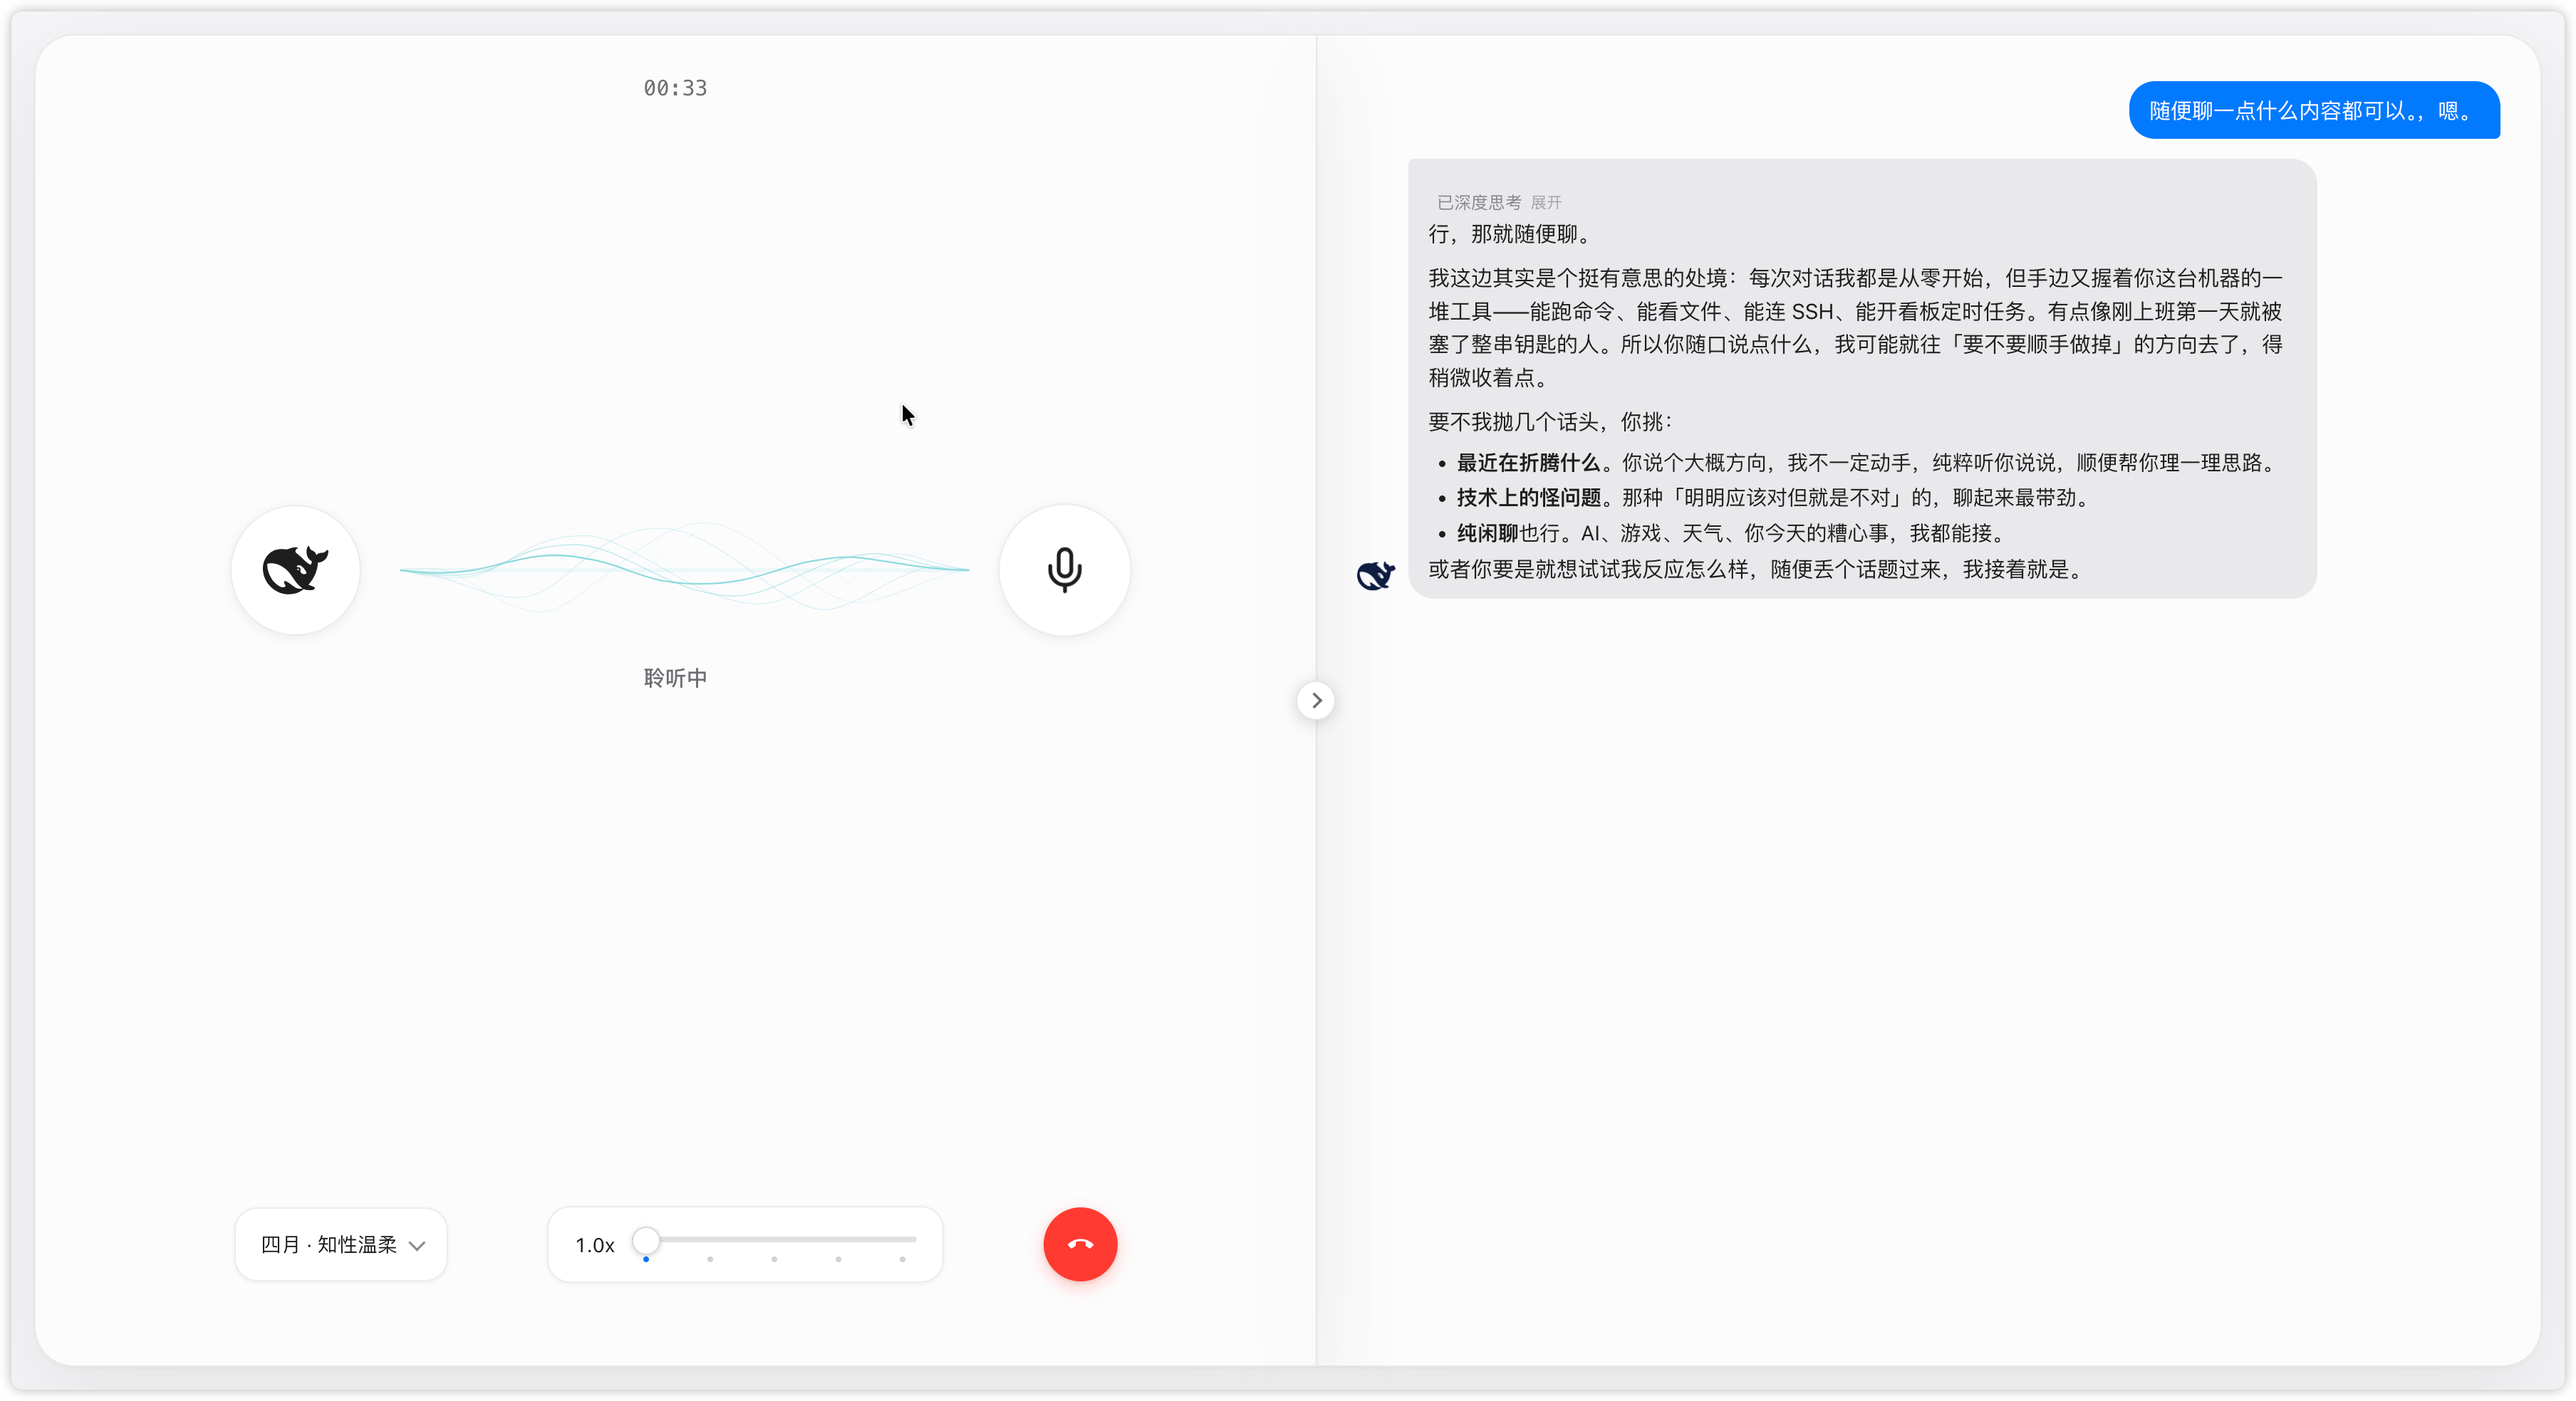
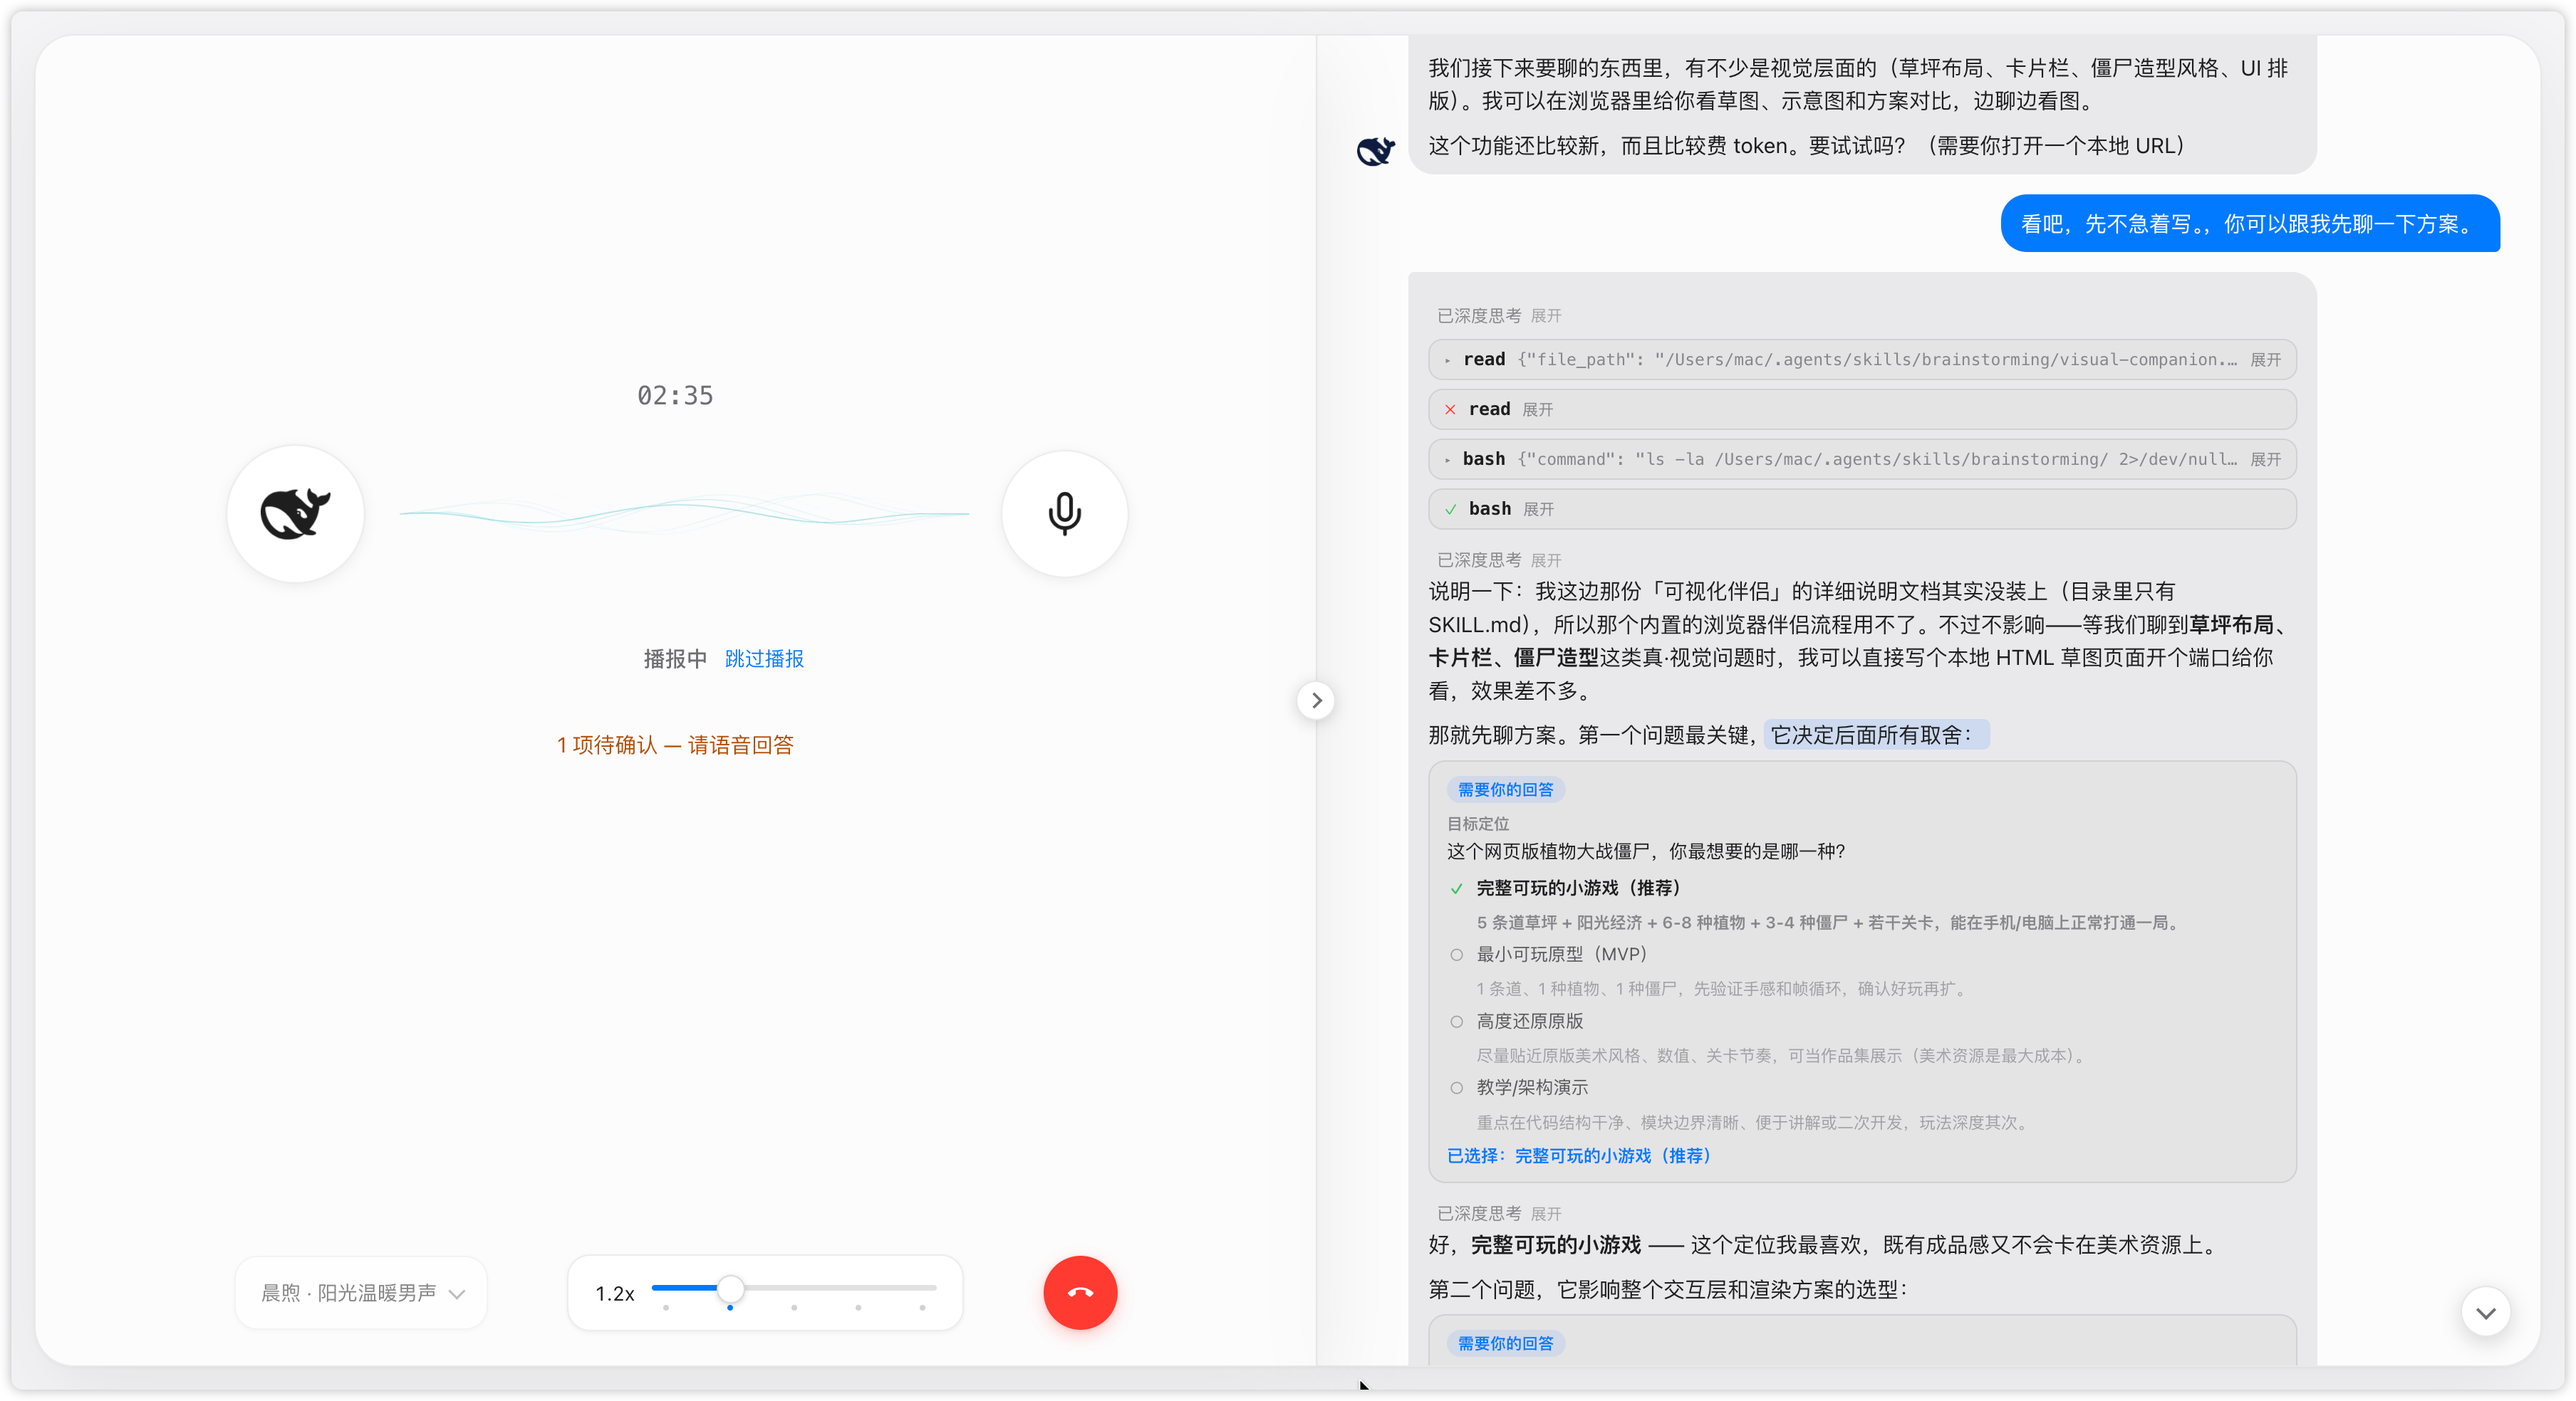
docs: README 优化——头图替换为最新通话层截图；「配置大模型」压缩为两句并改用申请 API Key 链接（与设置页一致）；删除「常见问题」整节（中英同步）

diff --git a/README.en.md b/README.en.md
@@ -30,7 +30,7 @@ Requires dsh ≥ 0.1.0-rc.7 (`web` profile), Chrome / Edge, microphone permissio
 
 ### 2. Configure a model
 
-Settings → Plugins → Voice chat. Qwen is recommended: get a DashScope API Key (https://bailian.console.aliyun.com/cn-beijing/model/market?capabilities=ASR%2CTTS) and paste it into Qwen's "Settings" — the model and endpoint are already built in, so top up and you are set; to make "Speak" use Qwen as well, click "Enable" on that row. iFlytek is built in as well and configured the same way.
+Get an API Key from [Alibaba Cloud Model Studio](https://bailian.console.aliyun.com/cn-beijing/model/settings/api-key), then paste it into Qwen's "Settings" under Settings → Plugins → Voice chat; the model and endpoint are built in. Qwen is the only engine for now; more will be added later.
 
 ### 3. Start talking
 
@@ -57,20 +57,6 @@ Changes on the settings page are persistent defaults; changes made in the call o
 - Bilingual UI (Chinese / English): follows the platform language setting.
 - Keys stay on your machine and are never uploaded: the browser never sees them, and speech requests are proxied by the host.
 - Open source under MIT: auditable and self-hostable.
-
-## FAQ
-
-**Q**: The mic does nothing, or it stays stuck on "Listening" — what now?
-
-**A**: Go to Settings → Plugins → Voice chat and make sure the "Listen" engine has credentials configured and enabled.
-
-**Q**: Replies show as text, but I hear nothing?
-
-**A**: Make sure the "Speak" engine is enabled; for cloud engines check the key and account balance, and for the system voice check the system volume and selected voice.
-
-**Q**: Speaking does not interrupt the readout?
-
-**A**: Barge-in is off by default — turn it on manually. Headphones are recommended; otherwise the speaker output is picked up by the mic and interferes with interruption detection.
 
 ## Easter egg
 

diff --git a/README.md b/README.md
@@ -30,7 +30,7 @@ dsh plugin --profile web add /path/to/dsh-voice-talk
 
 ### 2. 配置大模型
 
-设置 → 插件 → 语音对话。推荐千问：申请一个 DashScope API Key（https://bailian.console.aliyun.com/cn-beijing/model/market?capabilities=ASR%2CTTS），填进千问的「设置」即可——模型和地址都已内置，充值就能用；想让「说」也用千问，点一下那一行的「启用」。讯飞也已内置，同样在设置页配置。
+在[阿里云百炼申请一个 API Key](https://bailian.console.aliyun.com/cn-beijing/model/settings/api-key)，然后到 设置 → 插件 → 语音对话，填进千问的「设置」即可；模型和地址已内置，充值就能用。目前支持千问，后续会引入更多语音引擎。
 
 ### 3. 开始使用
 
@@ -57,20 +57,6 @@ dsh plugin --profile web add /path/to/dsh-voice-talk
 - 中英文双语：跟随平台语言设置，界面完整本地化。
 - 密钥只存本机、绝不上传：浏览器接触不到密钥，语音请求由宿主代理转发。
 - 开源 MIT：代码可审计、可自建。
-
-## 常见问题
-
-**Q**：点了麦克风没反应，或者一直停在「聆听中」？
-
-**A**：到设置 → 插件 → 语音对话，确认「听」的引擎已配置密钥并启用。
-
-**Q**：有文字，但没有声音？
-
-**A**：确认「说」的引擎已启用；云端引擎检查密钥与余额；系统语音检查系统音量与所选音色。
-
-**Q**：说话打断不了播报？
-
-**A**：「说话打断播报」默认关闭，需要手动打开；建议戴耳机，否则扬声器的声音会被麦克风收录，影响打断判断。
 
 ## 彩蛋
 
